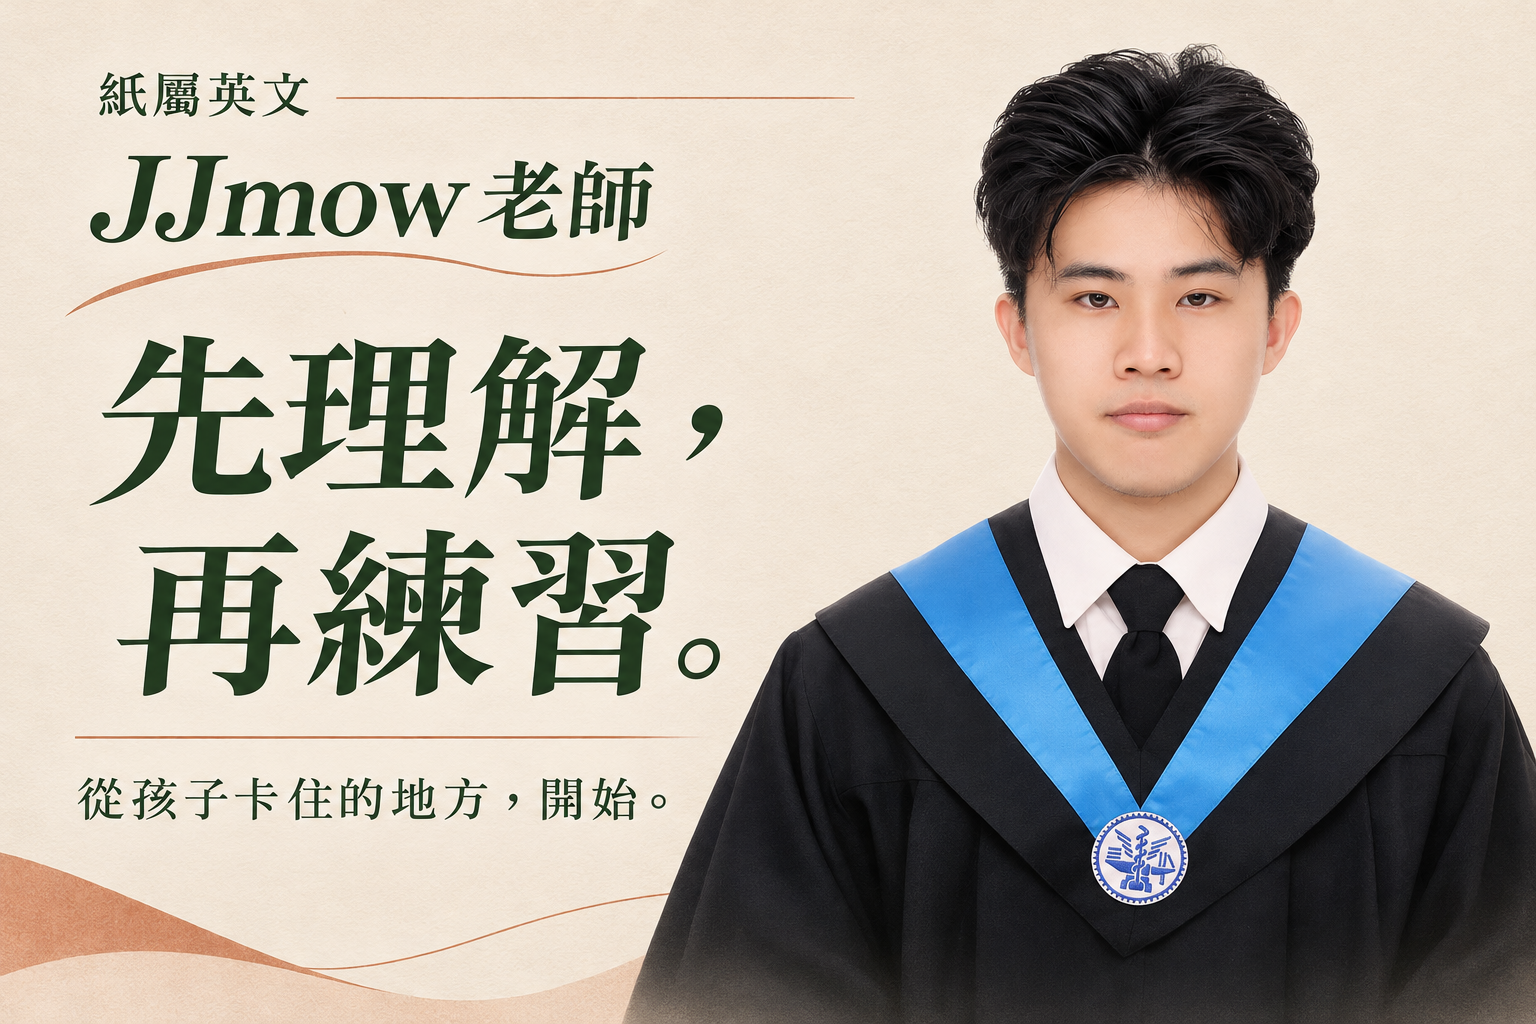
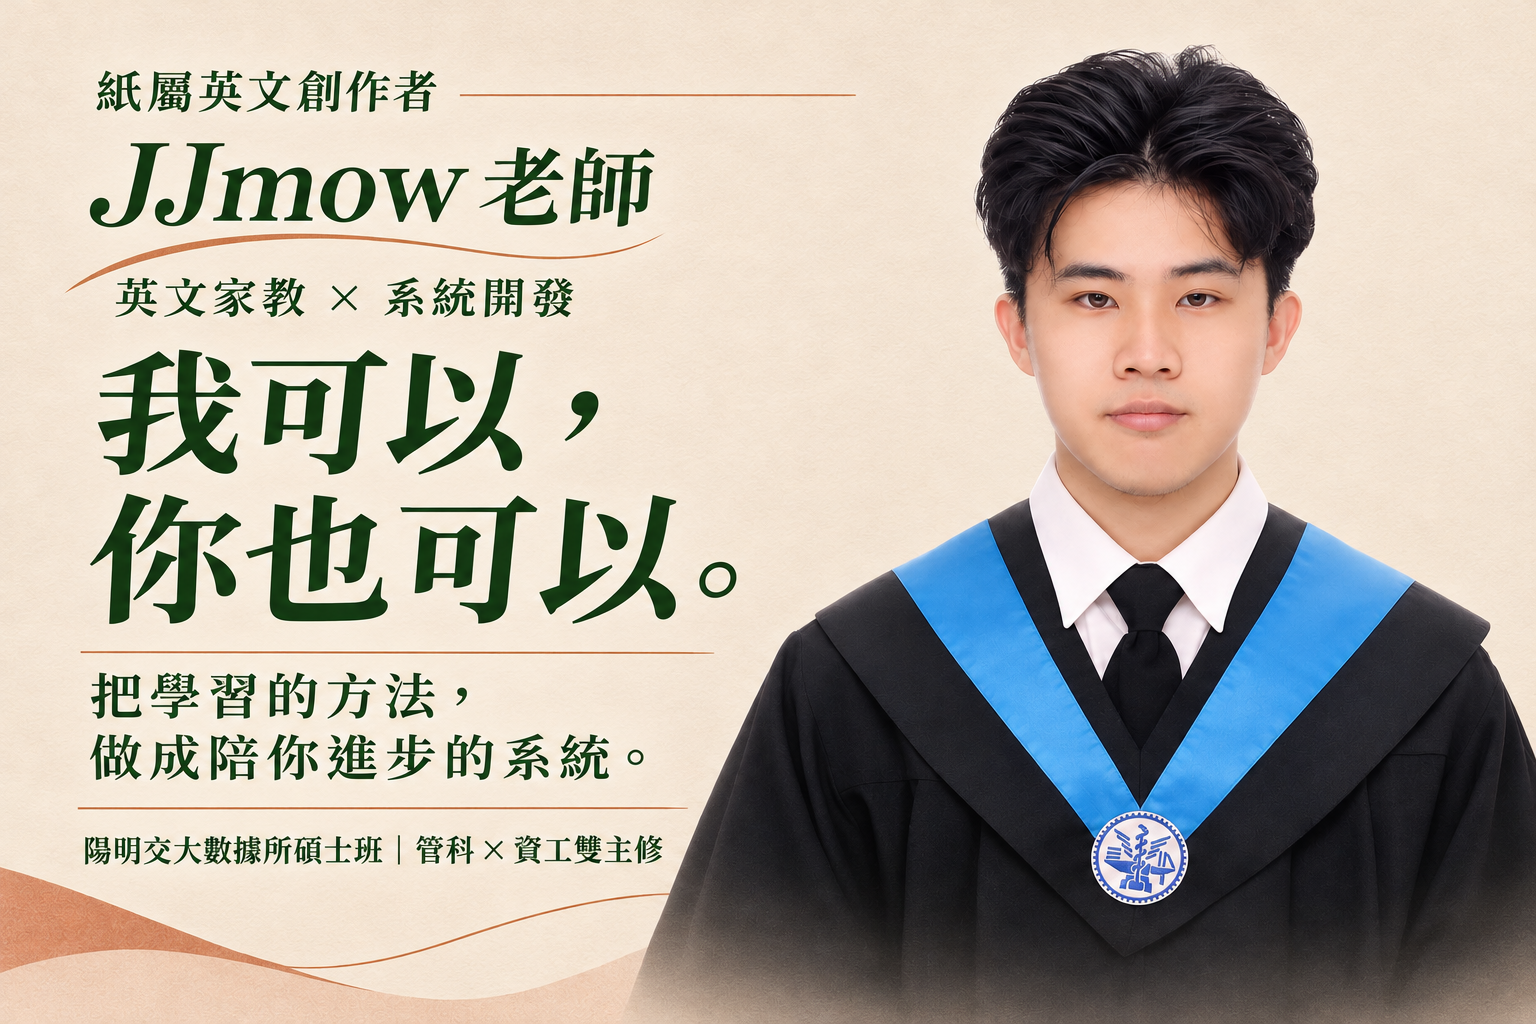
refine: center founder artwork on teaching and systems background

diff --git a/apps/web/src/components/public/FounderSummary.tsx b/apps/web/src/components/public/FounderSummary.tsx
@@ -2,7 +2,7 @@ export function FounderSummary() {
   return (
     <section className="public-section founder-summary founder-composed" id="founder" aria-labelledby="founder-summary-title">
       <div className="founder-heading">
-        <img className="founder-brand-art" src="/founder/jjmow-brand.png" alt="紙屬英文・JJmow 老師：先理解，再練習。從孩子卡住的地方，開始。" width="1536" height="1024" loading="lazy" />
+        <img className="founder-brand-art" src="/founder/jjmow-brand.png" alt="紙屬英文創作者 JJmow 老師，英文家教 × 系統開發。我可以，你也可以。把學習的方法，做成陪你進步的系統。陽明交大數據所碩士班，管科與資工雙主修。" width="1536" height="1024" loading="lazy" />
         <p className="overline">JJmow 老師 · 紙屬英文創作者</p>
         <h2 id="founder-summary-title">從孩子卡住的地方，開始設計練習。</h2>
       </div>

diff --git a/apps/web/src/components/public/FounderProfile.tsx b/apps/web/src/components/public/FounderProfile.tsx
@@ -5,7 +5,7 @@ export function FounderProfile() {
   return <div className="container founder-profile">
     <section className="public-section founder-summary founder-composed">
       <div>
-        <img className="founder-brand-art" src="/founder/jjmow-brand.png" alt="紙屬英文・JJmow 老師：先理解，再練習。從孩子卡住的地方，開始。" width="1536" height="1024" />
+        <img className="founder-brand-art" src="/founder/jjmow-brand.png" alt="紙屬英文創作者 JJmow 老師，英文家教 × 系統開發。我可以，你也可以。把學習的方法，做成陪你進步的系統。陽明交大數據所碩士班，管科與資工雙主修。" width="1536" height="1024" />
         <p className="overline">{founderContent.name} · {founderContent.shortBio}</p>
       </div>
       <div className="founder-story">

diff --git a/apps/web/src/content/site.ts b/apps/web/src/content/site.ts
@@ -18,7 +18,7 @@ export const founderContent = {
   philosophy: '我希望孩子先自己閱讀、圈出不懂的地方、完成作答，再把科技用在解釋與延伸練習，而不是代替思考。',
   website: 'https://me.jjmowlab.com/',
   email: '',
-  portraitPath: '/founder/hou-portrait.png',
+  portraitPath: '/founder/jjmow-brand.png',
   scoreEvidencePath: '',
   scoreSummary: '',
 } as const

diff --git a/docs/founder-brand-placement.md b/docs/founder-brand-placement.md
@@ -41,3 +41,5 @@
 ## 最終 AI 主視覺 prompt
 
 使用提供的人像作為真實人物參照，保留五官辨識度、髮型與學士服，微調光線與色調。去除原白底，人物配置右側並自然融入紙色底；左側整合精準繁體中文：紙屬英文、JJmow 老師、先理解，再練習。、從孩子卡住的地方，開始。採深綠字體、陶土色細線、低調紙紋。避免相片框、光暈、假教室與額外人物。全幅 3:2 品牌主視覺，文字與人物共同構圖。
+
+最新文案依使用者修正：主視覺聚焦創作者背景，使用『英文家教 × 系統開發』、『我可以，你也可以。』、『把學習的方法，做成陪你進步的系統。』與已核對的學歷背景。取代先前通用教學 slogan，畫面文字同步寫入圖片 alt。
